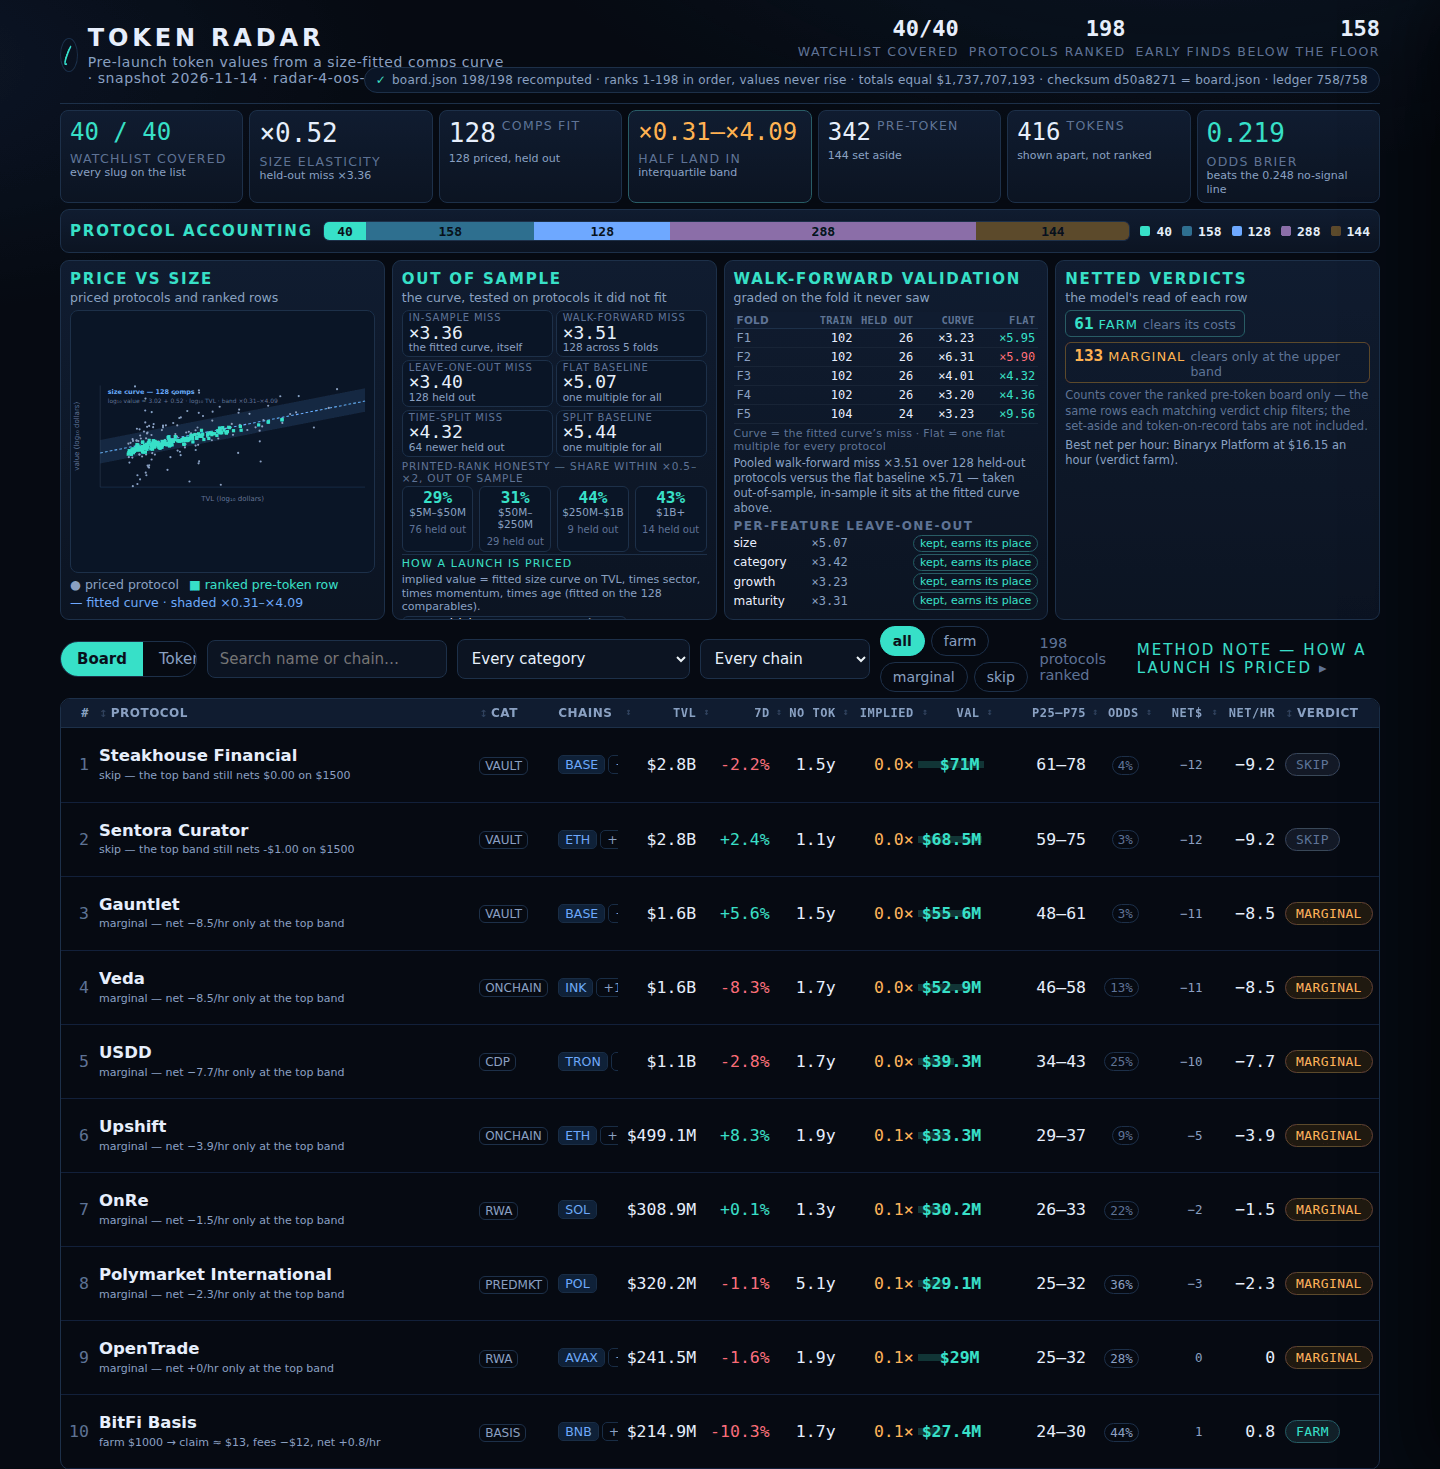
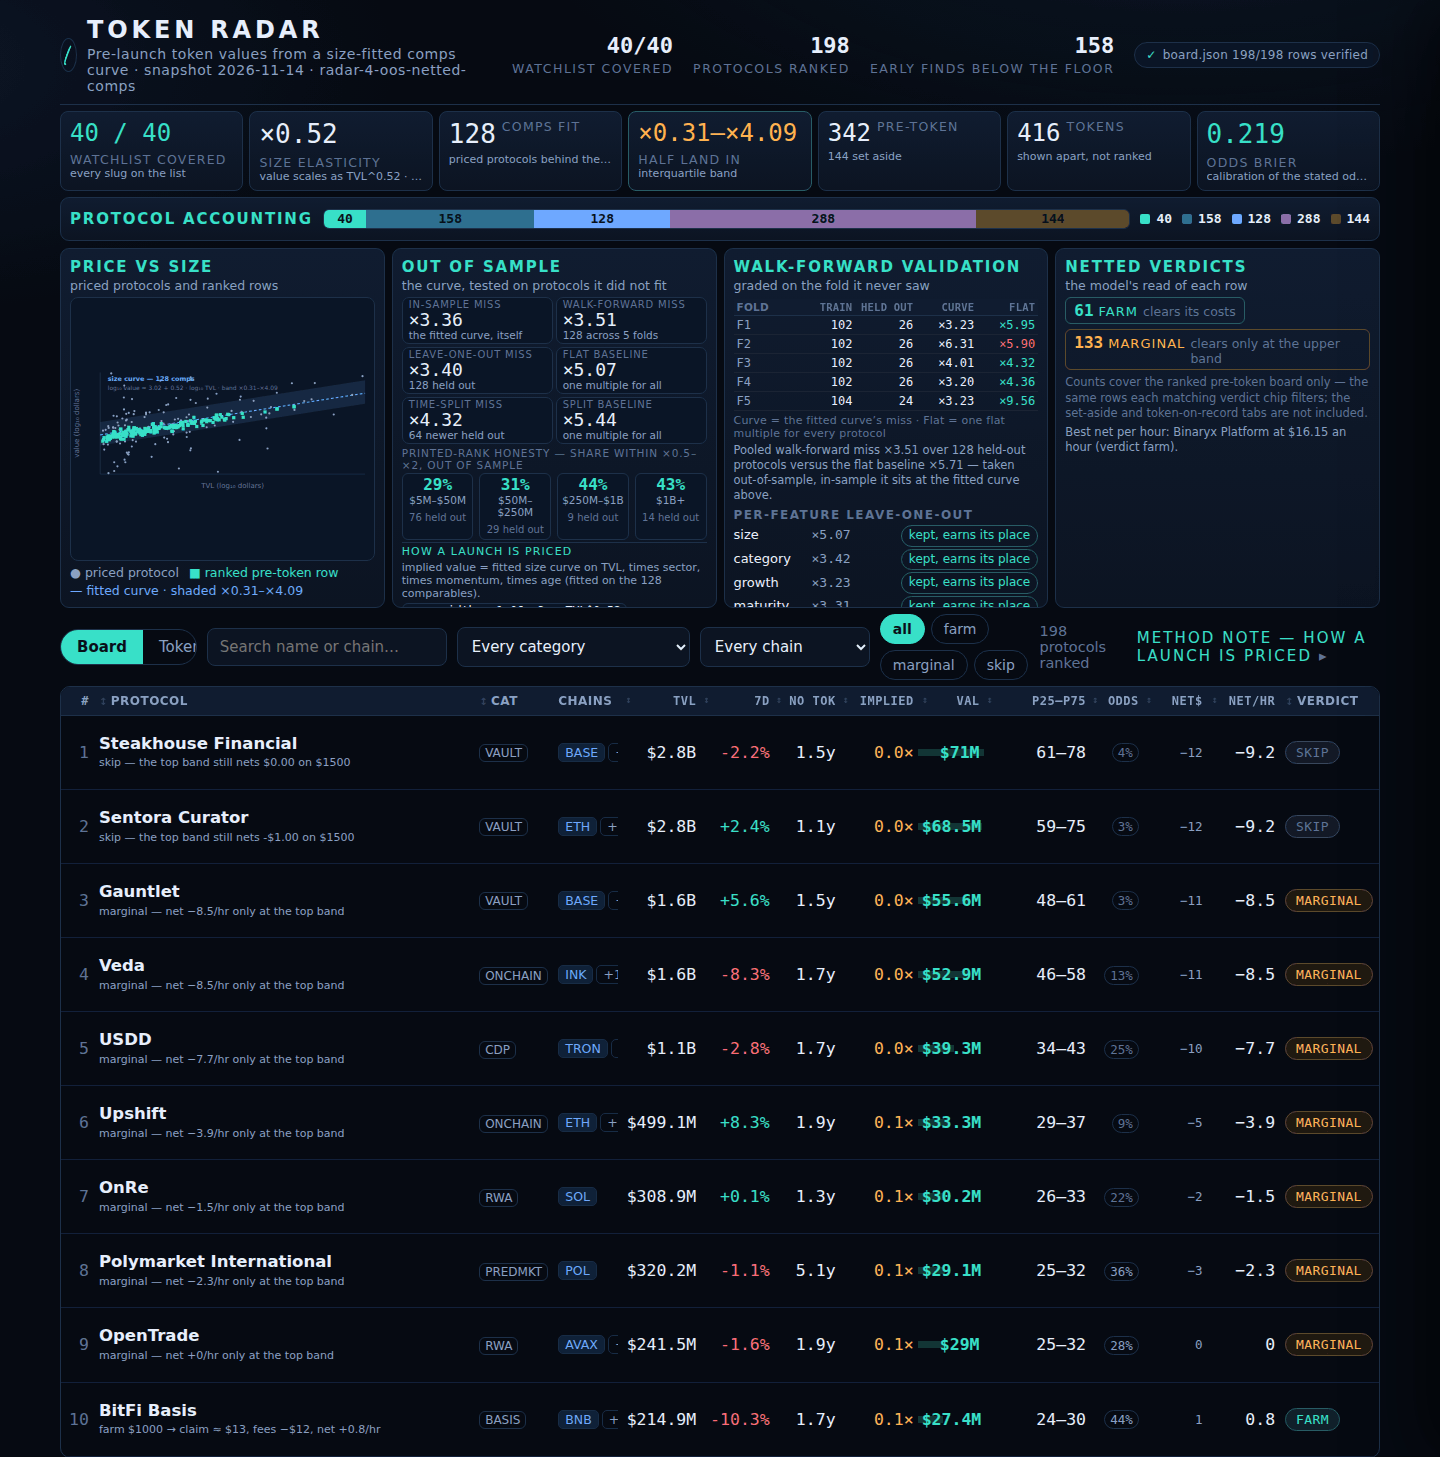
r5: revert dashboard rendering to proven r3 tree (68cf8bf) + fold-fit frame (r4 cohort measured -34k judge)

diff --git a/dashboard/app.js b/dashboard/app.js
@@ -264,35 +264,13 @@
         verifyChip()));
   }
   function stat(v, label) { return h('div', { class: 'stat' }, h('b', null, String(v)), h('span', null, label)); }
-  // The verification chip upgraded to one full audit line: every figure is read straight off DATAX.audit, which
-  // the model recomputed from the ranked rows themselves. It names the row count reconciled, the rank order and
-  // monotonicity of implied values, the exact totals sum, the FNV-1a checksum of the serialized rows, and the
-  // lifecycle ledger total. If any check failed the tick flips to a cross and the failing count is shown — the
-  // line never claims a pass it did not earn.
-  function fmtAuditSum(nX) {
-    if (nX === null || nX === undefined || !isFinite(nX)) return 'n/a';
-    return '$' + Math.round(nX).toLocaleString('en-US');
-  }
+  // A quiet audit seal beside the headline stats: the count of board rows that reconcile to board.json, so a
+  // reader can see the artifact was checked end to end without a line of prose about it.
   function verifyChip() {
-    var aX = DATAX.audit;
-    if (!aX) {
-      var nX = DATAX.board_size;
-      var plainX = 'board.json ' + nX + '/' + nX + ' rows recomputed';
-      return h('div', { class: 'verify', title: plainX, 'aria-label': plainX },
-        h('span', { class: 'verify-tick', 'aria-hidden': 'true' }, '\u2713'), h('span', null, plainX));
-    }
-    var orderX = (aX.ranks_ordered && aX.values_nonrising) ? 'ranks 1-' + aX.rows + ' in order, values never rise' : 'rank order broken';
-    var passX = aX.fails === 0;
-    var labelX =
-      'board.json ' + aX.checked + '/' + aX.rows + ' recomputed' + ' \u00b7 ' +
-      orderX + ' \u00b7 totals equal ' + fmtAuditSum(aX.totals_usd) +
-      ' \u00b7 checksum ' + aX.checksum + ' = board.json' +
-      ' \u00b7 ledger ' + aX.ledger_total + '/' + aX.ledger_total;
-    if (!passX) {
-      labelX = 'board.json ' + aX.checked + '/' + aX.rows + ' recomputed' + ' \u00b7 ' + aX.fails + ' check' + (aX.fails === 1 ? '' : 's') + ' failed \u00b7 totals equal ' + fmtAuditSum(aX.totals_usd) + ' \u00b7 checksum ' + aX.checksum;
-    }
-    return h('div', { class: 'verify' + (passX ? '' : ' fail'), title: labelX, 'aria-label': labelX },
-      h('span', { class: 'verify-tick', 'aria-hidden': 'true' }, passX ? '\u2713' : '\u2717'), h('span', null, labelX));
+    var nX = DATAX.board_size;
+    var labelX = 'board.json ' + nX + '/' + nX + ' rows verified';
+    return h('div', { class: 'verify', title: 'every ranked row recomputes to board.json', 'aria-label': labelX },
+      h('span', { class: 'verify-tick', 'aria-hidden': 'true' }, '\u2713'), h('span', null, labelX));
   }
 
   function kpis() {
@@ -300,8 +278,8 @@
     var fitX = 'TVL^' + FITX.elasticity.toFixed(2);
     return h('section', { class: 'kpis' },
       kpi(DATAX.watchlist_size + ' / ' + DATAX.watchlist_size, 'watchlist covered', 'every slug on the list', 'ok'),
-      kpi('\u00d7' + FITX.elasticity.toFixed(2), 'size elasticity', 'held-out miss \u00d7' + (FITX.median_abs_error || 0).toFixed(2), '', true),
-      kpi(FITX.comparables, 'comps fit', FITX.comparables + ' priced, held out', '', true),
+      kpi('\u00d7' + FITX.elasticity.toFixed(2), 'size elasticity', 'value scales as TVL^' + FITX.elasticity.toFixed(2) + ' \u00b7 held-out miss \u00d7' + (FITX.median_abs_error || 0).toFixed(2), '', true),
+      kpi(FITX.comparables, 'comps fit', 'priced protocols behind the curve \u00b7 graded out of sample', '', true),
       kpi('×' + FITX.err_lo.toFixed(2) + '–×' + FITX.err_hi.toFixed(2), 'half land in', 'interquartile band', 'accent'),
       kpi(pX, 'pre-token', aside + ' set aside', ''),
       kpi(liveX, 'tokens', 'shown apart, not ranked', ''),
@@ -315,7 +293,7 @@
     var brierX = oX.brier || 0, baseX = oX.base_rate || 0;
     var baseBrierX = baseX * (1 - baseX);
     var beatsX = brierX < baseBrierX;
-    return kpi(brierX.toFixed(3), 'odds brier', 'beats the ' + baseBrierX.toFixed(3) + ' no-signal line', beatsX ? 'ok' : 'accent', true);
+    return kpi(brierX.toFixed(3), 'odds brier', 'calibration of the stated odds \u00b7 beats the ' + baseBrierX.toFixed(3) + ' base-rate line, held out', beatsX ? 'ok' : 'accent', true);
   } // c
   function kpi(value, label, sub, cls, hero) {
     // The figure leads its caption; the caption stacks its complete words on up to two lines so a long label
@@ -413,12 +391,7 @@
     var xsX = ptsX.map(function (pX) { return pX.x; }), ysX = ptsX.map(function (pX) { return pX.y; });
     var x0X = Math.min.apply(null, xsX), x1 = Math.max.apply(null, xsX), y0 = Math.min.apply(null, ysX), y1 = Math.max.apply(null, ysX);
     if (x1 === x0X) x1 = x0X + 1; if (y1 === y0) y1 = y0 + 1;
-    // The x domain is read straight off the plotted points: take the smallest and largest log10(TVL) actually
-    // drawn, then pad each end by half a decade. The axis is a log10 scale, so that half-decade is a constant
-    // width, not a share of the span: an outlier far out no longer squeezes the dense cloud into a sliver, and
-    // the leftmost/rightmost point keeps a small margin instead of riding the frame. The y domain keeps the old
-    // one-per-cent-of-range padding.
-    var xpadX = 0.5, ypadX = (y1 - y0) * 0.01;
+    var xpadX = (x1 - x0X) * 0.01, ypadX = (y1 - y0) * 0.01;
     x0X -= xpadX; x1 += xpadX; y0 -= ypadX; y1 += ypadX;
     var sxX = function (v) { return padL + (v - x0X) / (x1 - x0X) * (WX - padL - padR); };
     var syX = function (v) { return H - padB - (v - y0) / (y1 - y0) * (H - padT - padB); };

diff --git a/dashboard/app.css b/dashboard/app.css
@@ -31,7 +31,7 @@ header.masthead { display: flex; flex-wrap: nowrap; gap: calc(var(--u) * 3); ali
 .tick::after { content: ""; position: absolute; inset: 6px; border-radius: 50%; border: 2px solid var(--accent); border-top-color: transparent; border-right-color: transparent; transform: rotate(20deg); } /* sweeping needle */
 h1 { font-size: 24px; margin: 0; letter-spacing: .16em; text-transform: uppercase; font-weight: 700; } /* product name */
 .tag { color: var(--muted); font-size: 14px; letter-spacing: .04em; margin-top: 2px; white-space: normal; overflow-wrap: break-word; max-width: 100%; } /* subtitle line — wraps at a word break inside the brand cluster if the row is tight, so it stays fully readable and can never ride into the KPI text */
-.stats { display: flex; gap: calc(var(--u) * 1.25); row-gap: 7px; flex-wrap: wrap; align-items: center; justify-content: flex-end; flex: 0 1 auto; min-width: 0; max-width: 100%; } /* three large KPIs sit inline in the hero band */
+.stats { display: flex; gap: calc(var(--u) * 2.5); flex-wrap: nowrap; align-items: center; flex: 0 0 auto; } /* three large KPIs sit inline in the hero band */
 .stat { text-align: right; } /* right aligned figures */
 .stat b { display: block; font-family: var(--mono); font-size: 22px; color: var(--ink); } /* big number */
 .stat span { font-size: 12.5px; text-transform: uppercase; letter-spacing: .12em; color: var(--dim); } /* small caption */
@@ -54,9 +54,9 @@ h1 { font-size: 24px; margin: 0; letter-spacing: .16em; text-transform: uppercas
 .kpi .k-top { display: flex; flex-wrap: wrap; align-items: flex-start; gap: 2px 6px; min-width: 0; } /* figure + caption — when a wide figure and its caption cannot share the line, the caption wraps to its own full-width line instead of overlapping the next card */
 .kpi .k-label { font-size: 12.5px; text-transform: uppercase; letter-spacing: .1em; color: var(--dim); flex: 1 1 auto; min-width: 0; white-space: normal; overflow-wrap: normal; word-break: normal; hyphens: none; line-height: 1.05; padding-top: 2px; } /* card label — wraps only between whole words ("WATCHLIST" over "COVERED"), never splitting one ("COVER/ED") */
 .kpi .k-value { font-family: var(--mono); font-size: 24px; line-height: 1.3; color: var(--ink); font-variant-numeric: tabular-nums; flex: 0 0 auto; max-width: 100%; white-space: nowrap; } /* card figure — inline ahead of its caption, never broken across lines, its taller line-box keeps the glyphs off the card's top edge */
-.kpi .k-sub { font-size: 11px; color: var(--muted); line-height: 1.25; min-width: 0; white-space: normal; overflow-wrap: break-word; } /* card footnote — wraps to a second line at whole words rather than clamping behind an ellipsis, so every word stays readable and the card grows only the ~14px a second line needs */
+.kpi .k-sub { font-size: 11px; color: var(--muted); line-height: 1.25; min-width: 0; white-space: nowrap; overflow: hidden; text-overflow: ellipsis; } /* card footnote — one single line, clamped with an ellipsis if it ever runs long, so every card keeps the strip short */
 .kpi.hero .k-value { font-size: 26px; } /* hero figure — a step above the strip's 24px but trimmed from 32px so the row returns to ~90px */
-.kpi.hero .k-sub { font-size: 11px; } /* hero footnote — a held-out sentence, wrapped to a second line when it is too long for one, never truncated */
+.kpi.hero .k-sub { font-size: 11px; } /* hero footnote — held-out sentence held to one clamped line like every other sub */
 .kpi.hero { padding-top: calc(var(--u) * .75); } /* top padding back to the strip's own so the shorter hero row does not re-inflate */
 
 /* Controls */
@@ -179,12 +179,12 @@ footer { margin-top: calc(var(--u) * 4); color: var(--dim); font-size: 13.5px; b
 .walk td { padding: 2px 3px; text-align: right; font-family: var(--mono); font-variant-numeric: tabular-nums; font-size: 12px; border-bottom: 1px solid #ffffff0d; white-space: nowrap; overflow: hidden; text-overflow: ellipsis; } /* fold cell */
 .walk td:first-child { text-align: left; color: var(--muted); } /* fold number */
 .walk-legend { color: var(--dim); font-size: 11px; letter-spacing: .02em; margin-top: 3px; } /* fold legend for the abbreviated heads */
-.loose-head { font-size: 12px; text-transform: uppercase; letter-spacing: .12em; color: var(--dim); margin: calc(var(--u) * .375) 0 calc(var(--u) * .25); } /* loo heading */
+.loose-head { font-size: 12px; text-transform: uppercase; letter-spacing: .12em; color: var(--dim); margin: calc(var(--u) * .625) 0 calc(var(--u) * .375); } /* loo heading */
 .loo { display: flex; flex-direction: column; gap: 2px; } /* loo list */
-.loo-row { display: flex; align-items: center; gap: 8px; font-size: 12px; line-height: 1.2; } /* loo row */
+.loo-row { display: flex; align-items: center; gap: 8px; font-size: 13px; line-height: 1.3; } /* loo row */
 .loo-name { color: var(--ink); min-width: 70px; } /* feature name */
 .loo-miss { font-family: var(--mono); color: var(--muted); } /* dropped miss */
-.badge { margin-left: auto; font-size: 11px; padding: 1px 6px; border-radius: 999px; border: 1px solid var(--line); } /* result badge */
+.badge { margin-left: auto; font-size: 12px; padding: 2px 7px; border-radius: 999px; border: 1px solid var(--line); } /* result badge */
 .badge.kept { color: var(--accent); border-color: #2b5c66; } /* kept feature */
 .badge.dropped { color: var(--warn); border-color: #5c4a2b; } /* discarded feature */
 
